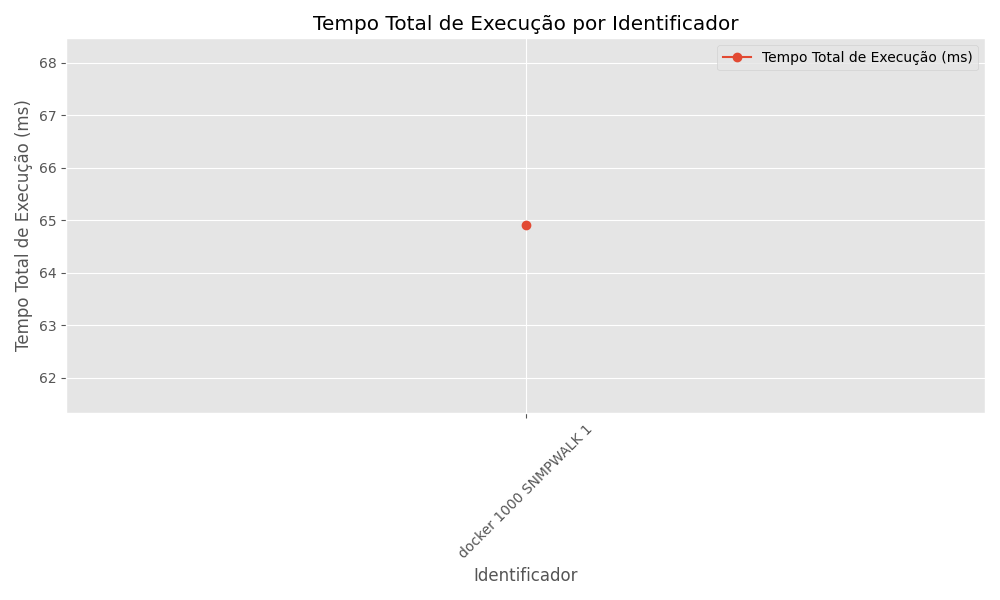
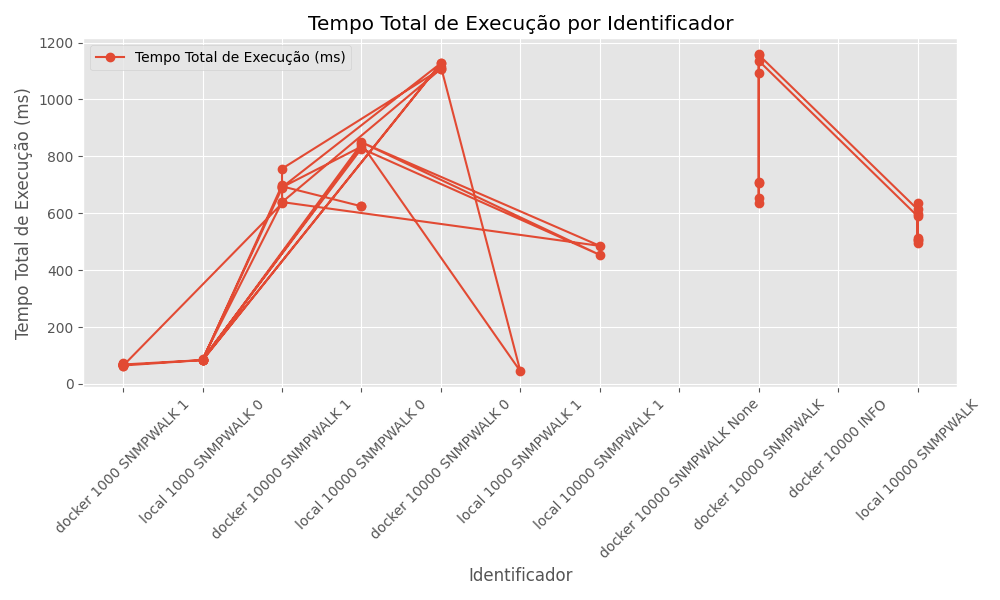
bug no upd

diff --git a/udp-client/udp-client.py b/udp-client/udp-client.py
@@ -4,88 +4,90 @@ import argparse
 import json
 import statistics
 
+
 # Função para enviar uma requisição e receber a resposta
 def send_request(sock, server_address, request):
     sock.sendto(request.encode(), server_address)
     response, _ = sock.recvfrom(1024)
     return response.decode()
 
+
 # Função para executar múltiplas requisições ao servidor
 def execute_requests(host, port, num_requests, verbose, command):
     times = []
     server_address = (host, port)
-    sock = socket.socket(socket.AF_INET, socket.SOCK_DGRAM)
     command = " ".join(command)
+    sock = socket.socket(socket.AF_INET, socket.SOCK_DGRAM)
+
     for _ in range(num_requests):
-        start_time = time.time()
-        response = send_request(sock, server_address, command)
-        elapsed_time = time.time() - start_time
-        times.append(elapsed_time)
+        start_time = time.time()  # Marca o tempo de início
+        response = send_request(sock, server_address, command)  # Envia a requisição
+        elapsed_time = time.time() - start_time  # Calcula o tempo de resposta
+        times.append(elapsed_time)  # Adiciona o tempo à lista
         if verbose:
-            print(f"Response: {response}")
+            print(
+                f"Response: {response}"
+            )  # Exibe a resposta se `verbose` estiver ativado
 
     sock.close()
     return times
 
+
+# Função para calcular estatísticas de desempenho
 def log_performance(times, log_file=None):
     if not times or not all(isinstance(t, (int, float)) for t in times):
         print("Invalid or empty times list provided.")  # Lista vazia ou inválida
         return {}
 
     # Converte tempos para milissegundos para melhorar a apresentação
-    times_ms = [t * 1000 for t in times]  # Converte segundos para milissegundos
+    times_ms = [t * 1000 for t in times]
 
     # Calcula as estatísticas em milissegundos
-    execution_time = sum(times_ms)
-    avg_time = statistics.mean(times_ms)
-    min_time = min(times_ms)
-    max_time = max(times_ms)
-    std_dev = statistics.stdev(times_ms) if len(times_ms) > 1 else 0
-
-    # # Calcula as estatísticas dos tempos
-    # execution_time = sum(times)  # Tempo total de execução
-    # avg_time = statistics.mean(times)  # Tempo médio
-    # min_time = min(times)  # Tempo mínimo
-    # max_time = max(times)  # Tempo máximo
-    # std_dev = statistics.stdev(times) if len(times) > 1 else 0  # Desvio padrão
-
-    # Cria um dicionário de estatísticas
     stats = {
-        "tempo_de_execucao_total_ms": round(execution_time, 3),
-        "tempo_medio_ms": round(avg_time, 3),
-        "tempo_minimo_ms": round(min_time, 3),
-        "tempo_maximo_ms": round(max_time, 3),
-        "desvio_padrao_ms": round(std_dev, 3),
+        "tempo_de_execucao_total_ms": round(sum(times_ms), 3),
+        "tempo_medio_ms": round(statistics.mean(times_ms), 3),
+        "tempo_minimo_ms": round(min(times_ms), 3),
+        "tempo_maximo_ms": round(max(times_ms), 3),
+        "desvio_padrao_ms": round(
+            statistics.stdev(times_ms) if len(times_ms) > 1 else 0, 3
+        ),
     }
-
-    # Imprime as estatísticas formatadas
-    # print("Performance statistics (in milliseconds):")
-    # for key, value in stats.items():
-    #     print(f"{key}: {value} ms")
 
     # Salva as estatísticas em um arquivo, se especificado
     if log_file:
         try:
             with open(log_file, "w") as file:
-                file.write(str(stats))  # Escreve os resultados no arquivo
+                file.write(str(stats))
         except Exception as e:
             print(f"Failed to write to log file: {e}")
 
     return stats
 
+
 # Função para analisar os argumentos da linha de comando
 def parse_arguments():
     parser = argparse.ArgumentParser(description="Cliente UDP para enviar comandos.")
-    parser.add_argument("--host", type=str, default="127.0.0.1", help="Endereço do servidor")
-    parser.add_argument("--port", type=int, default=5000, help="Porta do servidor")
-    parser.add_argument("--requests", type=int, default=10, help="Número de requisições")
+    parser.add_argument(
+        "--host", type=str, default="127.0.0.1", help="Endereço do servidor"
+    )
+    parser.add_argument("--port", type=int, default=8081, help="Porta do servidor")
+    parser.add_argument(
+        "--requests", type=int, default=10, help="Número de requisições"
+    )
     parser.add_argument("--verbose", action="store_true", help="Imprimir respostas")
     parser.add_argument("--log", type=str, help="Arquivo de log para resultados")
-    parser.add_argument("--command", type=str,nargs="+", default="INFO", help="Comando a ser enviado")
+    parser.add_argument(
+        "--command", type=str, nargs="+", default="INFO", help="Comando a ser enviado"
+    )
+    parser.add_argument("--keep")
+    parser.add_argument("--session")
     return parser.parse_args()
+
 
 if __name__ == "__main__":
     args = parse_arguments()
-    times = execute_requests(args.host, args.port, args.requests, args.verbose, args.command)
+    times = execute_requests(
+        args.host, args.port, args.requests, args.verbose, args.command
+    )
     stats = log_performance(times, args.log)
     print(json.dumps(stats))

diff --git a/main_script.py b/main_script.py
@@ -5,13 +5,8 @@ from parse_argument import get_argments
 from save_csv import save_csv
 from generate_graphics import genrate_praphics
 
-# * É necessario levantar o seridor docker antes de executar o script
-# *  docker compose -f compose-server.yml run tcp-server
 
-#! python main_script.py --compose_file compose-tcp.yml --service tcp-client --script tcp-client.py --host 127.0.0.1 --port 8080 --requests 1000 --command SNMPWALK --log performance.log --keep 1 --output_file resultados.csv
-#! python3 main_script.py  --script tcp-client/tcp-client.py --host localhost --port 8080 --requests 1000 --command SNMPWALK --log performance.log --keep 0 --output_file resultados.csv
-
-
+# Função para executar scripts usando Docker Compose
 def execute_docker_compose(
     compose_file,
     service,
@@ -22,6 +17,7 @@ def execute_docker_compose(
     command,
     session,
     log,
+    verbose,
     keep,
     output_file,
 ):
@@ -43,15 +39,15 @@ def execute_docker_compose(
         str(requests),
         "--command",
         command,
-        "--session" if session else "",
+        "--session" if session and script != "udp-client.py" else "",
         "--log",
         log,
+        "--verbose" if verbose else "",
         "--keep",
-        str(keep),
-        # "--remove-orphans",
+        str(keep) if script != "udp-client.py" else "",
     ]
 
-    # Remove argumentos vazios (caso `--session` seja opcional)
+    # Remove argumentos vazios
     docker_command = [arg for arg in docker_command if arg]
 
     try:
@@ -60,20 +56,22 @@ def execute_docker_compose(
 
         # Estrutura os resultados em um dicionário
         new_output = {
-            "indentifier": " ".join(["docker", str(requests), command, str(keep)]),
+            "indentifier": " ".join(["docker", str(requests), command]),
             "stdout": resultado.stdout.strip(),
             "stderr": resultado.stderr.strip(),
             "returncode": resultado.returncode,
         }
 
         save_csv(output_file, new_output)
+        print(new_output)
 
     except Exception as e:
-        print(f"Erro ao execute o comando: {e}")
+        print(f"Erro ao executar o comando Docker: {e}")
 
-    compose_down(args.compose_file)
+    compose_down(compose_file)
 
 
+# Função para executar scripts localmente
 def execute_local(
     script,
     host,
@@ -82,12 +80,10 @@ def execute_local(
     command,
     session,
     log,
+    verbose,
     keep,
     output_file,
 ):
-    """
-    Executa o script diretamente no ambiente local, sem Docker.
-    """
     # Monta o comando dinamicamente
     local_command = [
         "python3",
@@ -100,14 +96,15 @@ def execute_local(
         str(requests),
         "--command",
         command,
-        "--session" if session else "",
+        "--verbose" if verbose else "",
         "--log",
         log,
         "--keep",
-        str(keep),
+        str(keep) if script != "udp-client.py" else "",
+        "--session" if session and script != "udp-client.py" else "",
     ]
 
-    # Remove argumentos vazios (caso `--session` seja opcional)
+    # Remove argumentos vazios
     local_command = [arg for arg in local_command if arg]
 
     try:
@@ -116,18 +113,20 @@ def execute_local(
 
         # Estrutura os resultados em um dicionário
         new_output = {
-            "indentifier": " ".join(["local", str(requests), command, str(keep)]),
+            "indentifier": " ".join(["local", str(requests), command]),
             "stdout": resultado.stdout.strip(),
             "stderr": resultado.stderr.strip(),
             "returncode": resultado.returncode,
         }
 
         save_csv(output_file, new_output)
+        print(new_output)
 
     except Exception as e:
         print(f"Erro ao executar o comando local: {e}")
 
 
+# Função para desmontar serviços Docker Compose
 def compose_down(compose_file):
     subprocess.run(
         ["docker", "compose", "-f", compose_file, "down", "--remove-orphans"],
@@ -137,7 +136,6 @@ def compose_down(compose_file):
 
 
 if __name__ == "__main__":
-
     # Faz o parse dos argumentos
     args = get_argments()
 
@@ -153,10 +151,10 @@ if __name__ == "__main__":
             command=args.command,
             session=args.session,
             log=args.log,
+            verbose=args.verbose,
             keep=args.keep,
             output_file=args.output_file,
         )
-        compose_down(args.compose_file)
     else:  # Caso contrário, executa localmente
         execute_local(
             script=args.script,
@@ -166,9 +164,9 @@ if __name__ == "__main__":
             command=args.command,
             session=args.session,
             log=args.log,
+            verbose=args.verbose,
             keep=args.keep,
             output_file=args.output_file,
         )
-    #! FALTA O VERBOSE
 
-    genrate_praphics(args.output_file)  # TODO: Os graficos precisam ser melhorados
+    genrate_praphics(args.output_file)  # TODO: Melhoria nos gráficos

diff --git a/tcp-client/tcp-client.py b/tcp-client/tcp-client.py
@@ -54,13 +54,8 @@ def execute_requests(host, port, num_requests, session, verbose, command, keep):
                 times.append(
                     time.time() - start_time
                 )  # Calcula e armazena o tempo de resposta
-                if not session:
-                    close_connection(
-                        sock
-                    )  # Fecha a conexão se a sessão não for persistente
 
-        if session:
-            close_connection(sock)  # Fecha a conexão se a sessão for persistente
+        close_connection(sock)  # Fecha a conexão se a sessão for persistente
 
         return times  # Retorna a lista de tempos de resposta
     elif keep == 0:
@@ -74,7 +69,6 @@ def execute_requests(host, port, num_requests, session, verbose, command, keep):
                 times.append(
                     time.time() - start_time
                 )  # Calcula e armazena o tempo de resposta
-            if session:
                 close_connection(sock)  # Fecha a conexão se a sessão for persistente
         return times  # Retorna a lista de tempos de resposta
 

diff --git a/parse_argument.py b/parse_argument.py
@@ -67,6 +67,10 @@ def get_argments():
         help="Arquivo de log (ex: performance.log)",
     )
     parser.add_argument(
+        "--verbose",
+        help="Flag de manter conexões (0 - mantem a conexao ou 1 - fecha conexão a cada chamada)",
+    )
+    parser.add_argument(
         "--keep",
         required=True,
         type=int,
